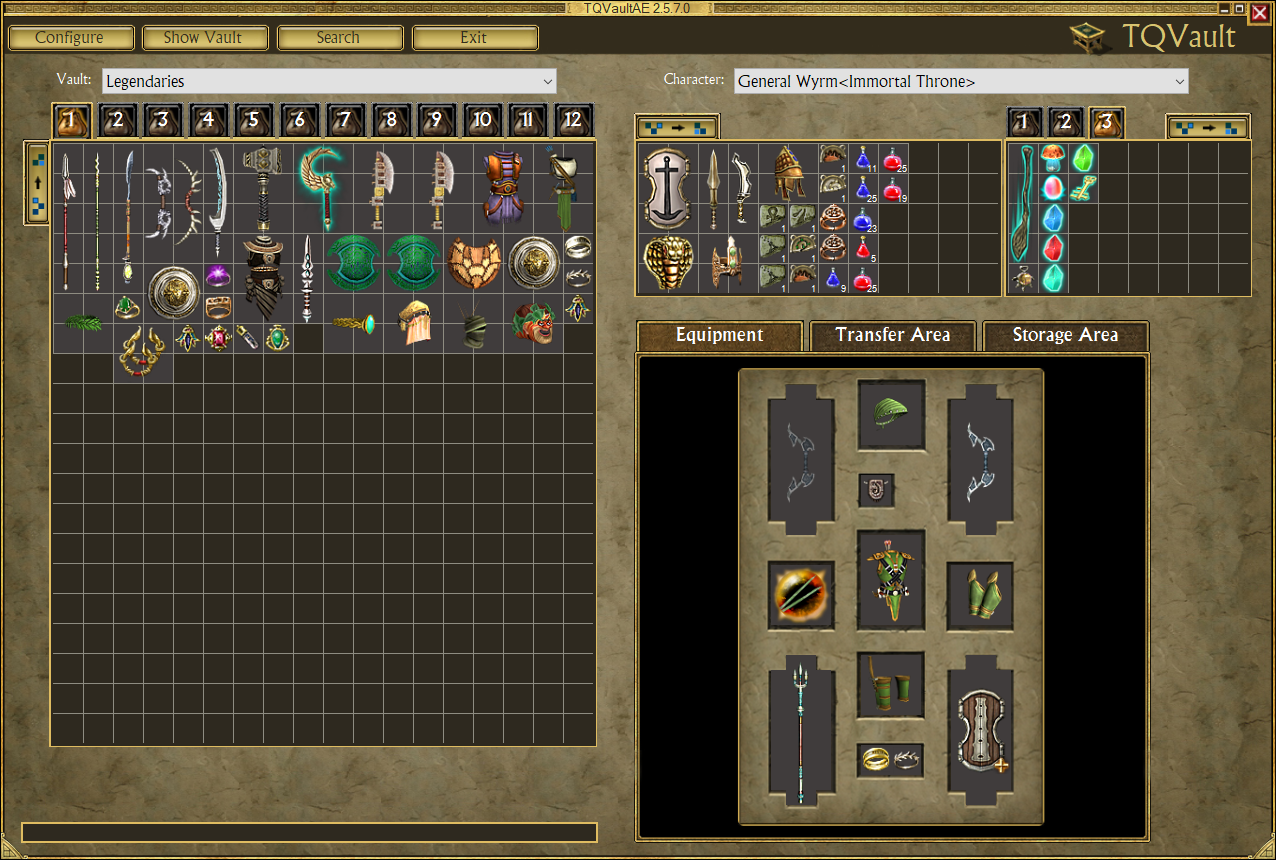
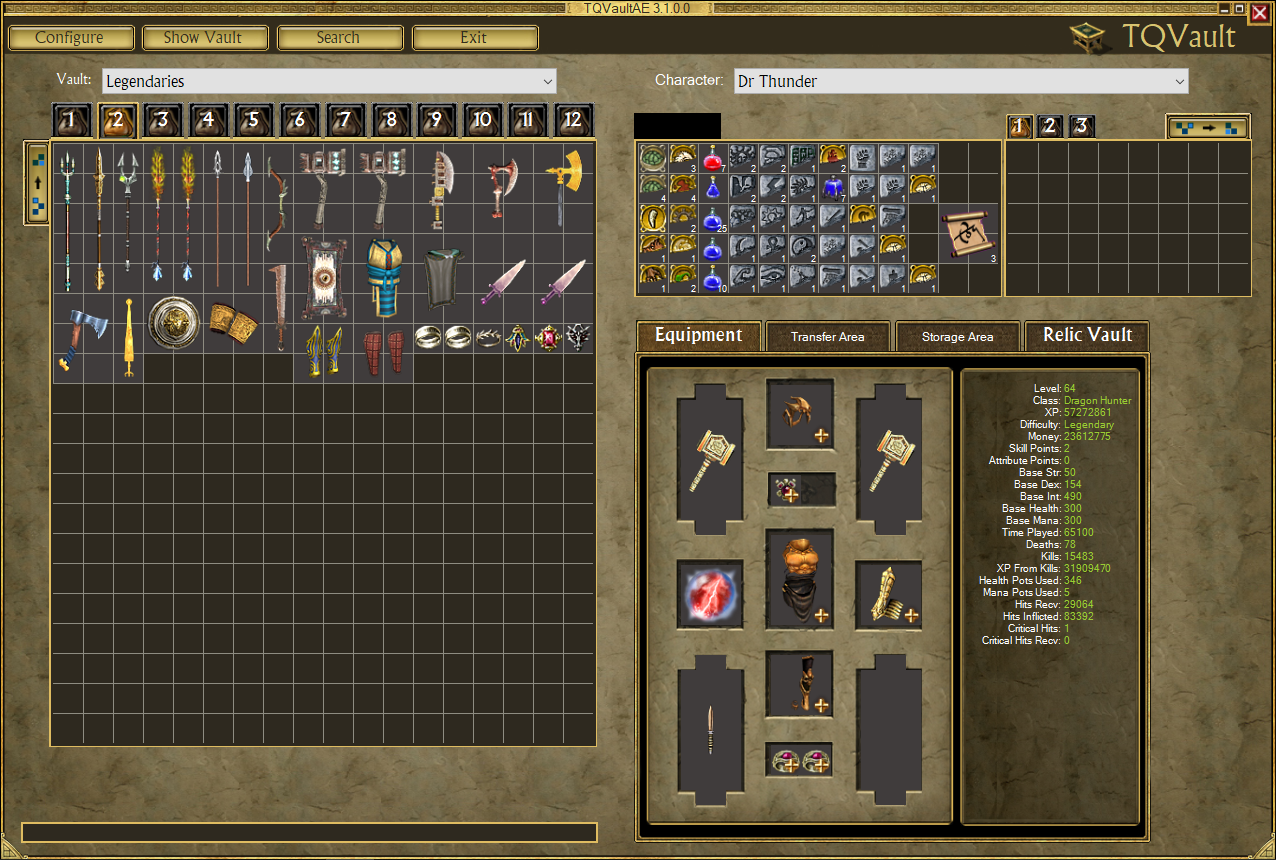
Update documentation in preparation of release 3.1.0 (#174)
* Update README
- Change stable version number
- Add disclaimer
- Fix indentation
- Refactor contributors
- Add reference to contributing guidelines

* Add contribution guidelines

* Update screenshot
in order to showcase the new character stats panel

* Update changelog

diff --git a/README.md b/README.md
@@ -1,6 +1,6 @@
 # TQVaultAE
 [![Steam](https://img.shields.io/badge/steam-link-lightgrey.svg)](https://steamcommunity.com/sharedfiles/filedetails/?id=1136716167)
-[![Release](https://img.shields.io/badge/stable-3.0.0-blue.svg)](https://github.com/EtienneLamoureux/TQVaultAE/releases)
+[![Release](https://img.shields.io/badge/stable-3.1.0-blue.svg)](https://github.com/EtienneLamoureux/TQVaultAE/releases)
 [![License](https://img.shields.io/badge/license-MIT-green.svg)](https://github.com/EtienneLamoureux/TQVaultAE/blob/master/LICENSE)
 
 TQVaultAE is an external tool for [Titan Quest Anniversary Edition](https://www.thqnordic.com/games/titan-quest) that allows you to store and search your items outside the game.
@@ -20,30 +20,36 @@ Works with all expansions!
   * [Contributors](#contributors)
     + [TQVaultAE](#tqvaultae-1)
     + [TQVault](#tqvault)
-    + [Translation team](#translation-team)
+      - [Translation team](#translation-team)
+  * [Disclaimer](#disclaimer)
 
 ## Features
 - **Infinite bank space**
 - Powerful search
 - Cheats
-  - Extract relic/charm from items at no cost, keeping both
-  - Modify the relic/charm completion bonus
-  - Complete relic/charm from a single piece
-  - Craft an artifact from its recipe
-  - Create missing set pieces
-  - Duplicate any item
+    - Items
+        - Extract relic/charm from items at no cost, keeping both
+        - Modify the relic/charm/artefact completion bonus
+        - Complete relic/charm from a single piece
+        - Craft an artifact from its recipe
+        - Create missing set pieces
+        - Duplicate any item
+    - Characters
+        - Redisribute attribute points
+        - Level up
+        - Unlock difficulties
 - QOL
-  - Bulk item transfer (CTRL-click, right-click)
-  - Combine stacks (potions, relics and charms) by dropping them onto each other
-  - Split potion stacks apart
+    - Bulk item transfer (CTRL-click, right-click)
+    - Combine stacks (potions, relics and charms) by dropping them onto each other
+    - Split potion stacks apart
 - Character backups
-  - If an error occurs, backups are located at `My Documents\My Games\Titan Quest\TQVaultData\Backup`
+    - If an error occurs, backups are located at `My Documents\My Games\Titan Quest\TQVaultData\Backup`
 
 ## Installation
 ### Installer
 1. Navigate to the [release page](https://github.com/EtienneLamoureux/TQVaultAE/releases)
 2. Download the latest release's `.exe` file.
-   - **Please note:** If you opt for a pre-release, be aware that they are alpha builds.
+    - **Please note:** If you opt for a pre-release, be aware that they are alpha builds.
 3. Double-click the `.exe`.
 4. Navigate to the folder where you installed TQVaultAE. Double-click `TQVaultAE.exe`
 5. Enjoy!
@@ -51,7 +57,7 @@ Works with all expansions!
 ### DIY Archive
 1. Navigate to the [release page](https://github.com/EtienneLamoureux/TQVaultAE/releases)
 2. Download the latest release's `.zip` file.
-   - **Please note:** If you opt for a pre-release, be aware that they are alpha builds.
+    - **Please note:** If you opt for a pre-release, be aware that they are alpha builds.
 3. Extract the content of the archive on your computer.
 4. Navigate to the folder where you extracted the artefacts. Double-click `TQVaultAE.exe`
 5. Enjoy!
@@ -64,10 +70,6 @@ The "Configure" button (top-left) opens up the configuration menu. That's where 
 - The cheats (listed under the "item edition" options)
 
 ## Troubleshooting and F.A.Q.
-**Q. Can TQVaultAE use my old vault files?**
-
-*A. Yes, TQVaultAE is compatible with the legacy TQvault vault files.*
-
 **Q. Does TQVaultAE modify my items? The stats I see are not the same as the ones ingame.**
 
 *A. No, unless you specifically use the cheats, TQVaultAE doesn't alter items in any way. 
@@ -78,10 +80,21 @@ TQVaultAE only displays the base stats (and not the modifications due to the RNG
 
 *A. No, using TQVaultAE while running the game may lead to loss of progress or items. Best practice is to close the game before using TQVaultAE.*
 
+**Q. How to activate the cheats (character edition, item edition, item copy)?**
+
+*A. Follow these steps:*
+1. *Navigate the the installation folder of TQVaultAE*
+2. *Open `TQVaultAE.exe.config` in a text editor (i.e. notepad, **not Microsoft Word**)*
+3. *Find the key `AllowCheats` and change the value from `False` to `True`*
+
+**Q. Can TQVaultAE use my old vault files?**
+
+*A. Yes, TQVaultAE is compatible with the legacy TQvault vault files.*
+
 **Q. After updating from an older version of TQVault (2.18 or older), the new program won't start.**
 
 *A. Follow these steps (See [this comment](https://github.com/EtienneLamoureux/TQVaultAE/issues/85#issuecomment-447326792) for the original solution):*
-1. *Press the `Windows` key*
+1. *Press the <kbd>⊞ Win</kbd> key*
 2. *Type `cmd`*
 3. *Right-click the first option and run as administrator*
 4. *Type `regsvr32 /u VXPLib.dll`*
@@ -93,6 +106,7 @@ TQVaultAE only displays the base stats (and not the modifications due to the RNG
 1. *Navigate the the installation folder of TQVaultAE*
 2. *Open `TQVaultAE.exe.config` in a text editor (i.e. notepad, **not Microsoft Word**)*
 3. *Replace the following sections:*
+
 ```xml
 <setting name="AutoDetectGamePath" serializeAs="String">
     <value>True</value>
@@ -105,7 +119,9 @@ TQVaultAE only displays the base stats (and not the modifications due to the RNG
     <value />
 </setting>
 ```
+
 *by (replace the path to the correct one for your computer)*
+
 ```xml
 <setting name="AutoDetectGamePath" serializeAs="String">
     <value>False</value>
@@ -118,8 +134,9 @@ TQVaultAE only displays the base stats (and not the modifications due to the RNG
     <value>C:\examplePath\Titan Quest Anniversary Edition</value>
 </setting>
 ```
+
 4. *Open TQVaultAE*
-   - *You might be greeted with a warning dialog about the vault path not being set. Click OK.*
+    - *You might be greeted with a warning dialog about the vault path not being set. Click OK.*
 5. *Open the configuration menu by clicking the top-left button*
 6. *Validate the vault path and the game paths shown*
 7. *Click OK to close the configuration menu*
@@ -144,13 +161,6 @@ TQVaultAE only displays the base stats (and not the modifications due to the RNG
 
 *A. Yes*
 
-**Q. How to activate the cheats (character edit, copy item, edit item)?**
-
-*A. Follow these steps:*
-1. *Navigate the the installation folder of TQVaultAE*
-2. *Open `TQVaultAE.exe.config` in a text editor (i.e. notepad, **not Microsoft Word**)*
-3. *Find the key `AllowCheats` and change the value from `False` to `True`*
-
 **Q. I have a problem not listed here. What can I do?**
 
 *A. There are several things you can do:*
@@ -159,16 +169,10 @@ TQVaultAE only displays the base stats (and not the modifications due to the RNG
 - *Create an issue in [our issue tracking board](https://github.com/EtienneLamoureux/TQVaultAE/issues)*
 
 ## Contributors
-This project could not go on without the continued contributions of the Titan Quest community.
+This project could not go on without the continued volunteer contributions of the Titan Quest community. If you're thinking about contributing, please read our [contributing guidelines](/CONTRIBUTING.md).
 
 ### TQVaultAE
-- EPinter, *XL vault, Atlantis support, bug fixes, general improvements*
-- NorthFury, *search improvements, bug fixes, general improvements*
-- EtienneLamoureux, *maintenance, bug fixes, general improvements*
 - [Open-source contributors](https://github.com/EtienneLamoureux/TQVaultAE/graphs/contributors)
-  - Malgardian (a.k.a. Spectre), *Anniversary Edition port*
-  - KenAlin, *Ragnarok support*
-  - Ninakoru, *Atlantis support*
 
 ### TQVault
 - Brandon "bman654" Wallace, *original author*
@@ -176,10 +180,13 @@ This project could not go on without the continued contributions of the Titan Qu
 - VillageIdiot, *ARZExplorer util*
 - AvunaOs, *new UI*
 
-### Translation team
+#### Translation team
 - FOE, *german*
 - Jean, *French*
 - Vifarc, *French*
 - Cygi, *Polish*
 - Xelat, *Russian*
 - Kurrus, *Spanish*
+
+## Disclaimer
+Titan Quest, THQ and their respective logos are trademarks and/or registered trademarks of THQ Nordic AB. This non-commercial project is in no way associated with THQ Nordic AB.

diff --git a/CONTRIBUTING.md b/CONTRIBUTING.md
@@ -1,0 +1,20 @@
+# Contributing in TQVaultAE
+- [Contributing in TQVaultAE](#contributing-in-tqvaultae)
+  * [Style and format](#style-and-format)
+  * [Contributions](#contributions)
+    + [What to work on](#what-to-work-on)
+      - [Note on unsolicited contributions](#note-on-unsolicited-contributions)
+    + [Pull requests](#pull-requests)
+
+## Style and format
+TQVaultAE follows the standard C# format and import order. Refrain from submitting white-space changes mixed-in with your functional changes.
+
+## Contributions
+### What to work on
+See our [list of outstanding issues](https://github.com/EtienneLamoureux/TQVaultAE/issues). It contains simple bugs, not so simple bugs and feature requests.
+
+#### Note on unsolicited contributions
+What if you want to work on something not in the list? No problem, we welcome any contribution to the project! With that said, please keep in mind that the community might suggest changes or refrain from accepting an unsolicited contribution if it strays too far from the goals of this project.
+
+### Pull requests
+Submit your pull request to the master branch of the [main fork](https://github.com/EtienneLamoureux/TQVaultAE). We consider any outstanding pull request ready to be merged in, so please make sure that the functionality is complete when submitting your change.  Furthermore, the commits will be squashed when merged and the main commit message will be re-written, so feel free to commit often.

diff --git a/CHANGELOG.md b/CHANGELOG.md
@@ -1,10 +1,10 @@
 # Changelog
 ## 3.1.0
 ### Features
-- Add character statistics to the character panel
-- New cheat: character statistics editing
+- Add character statistics to the character equipment panel
+- Add new character cheats:
   - Difficulty unlock
-  - Leveling
+  - Level up
   - Attribute points redistribution
 - Add a new utility program: TQSaveExplorer
   - This utility program allows developers to inspect Titan Quest save files to detect changes in structure
